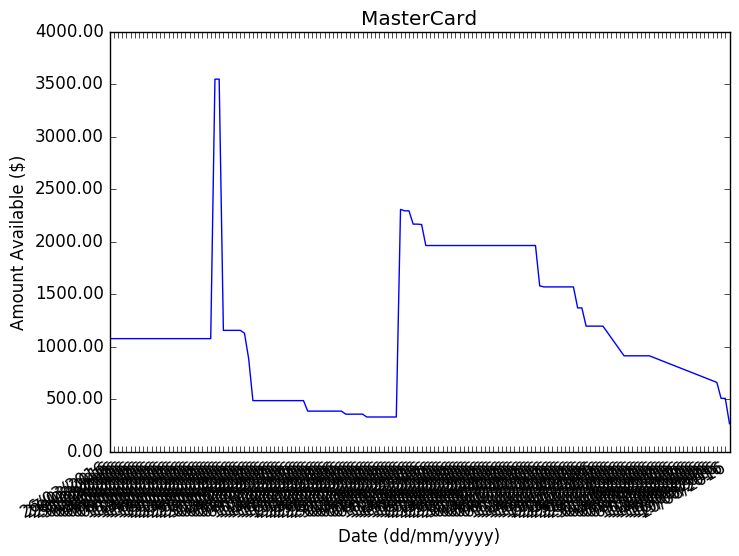
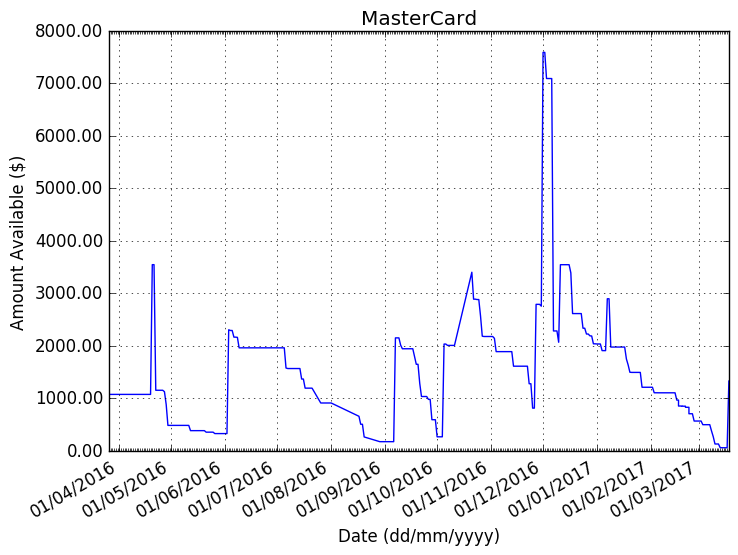
Avoiding blank data from being input

diff --git a/FCBManager.py b/FCBManager.py
@@ -3,9 +3,13 @@ from selenium import webdriver
 from collections import defaultdict
 import os, datetime
 
+import matplotlib
+matplotlib.use('Agg')
+
 import matplotlib.pyplot as plt
 import matplotlib.dates as mpdates
 from matplotlib import ticker
+
 
 from config import *
 from emailer import send_email
@@ -74,7 +78,7 @@ def checkbank():
     with open('accountlog.txt', 'r') as accountlog:
         account_body = accountlog.read()
 
-    if account_body != email_body:
+    if (account_body != email_body) and total_available:
         with open('accountlog.txt', 'w') as accountlog:
             accountlog.write(email_body)
         send_email(account_email, email_subject, email_body, False)
@@ -127,8 +131,10 @@ def dailylog():
         plt.gca().yaxis.set_major_formatter(ticker.FormatStrFormatter('%.2f'))
 
         plt.gca().xaxis.set_major_formatter(mpdates.DateFormatter('%d/%m/%Y'))
-        plt.gca().xaxis.set_major_locator(mpdates.DayLocator())
-        plt.gcf().autofmt_xdate()
+        plt.gca().xaxis.set_major_locator(mpdates.MonthLocator())
+        plt.gca().xaxis.set_minor_locator(mpdates.DayLocator())
+	plt.gca().grid(True)
+	plt.gcf().autofmt_xdate()
 
         figname = "graphs/fig"+str(i)+".png"
         plt.savefig(figname, bbox_inches='tight')
@@ -137,6 +143,5 @@ def dailylog():
 
 if datetime.datetime.now().hour == 8:
 	dailylog()
-	
 else:
 	checkbank()
